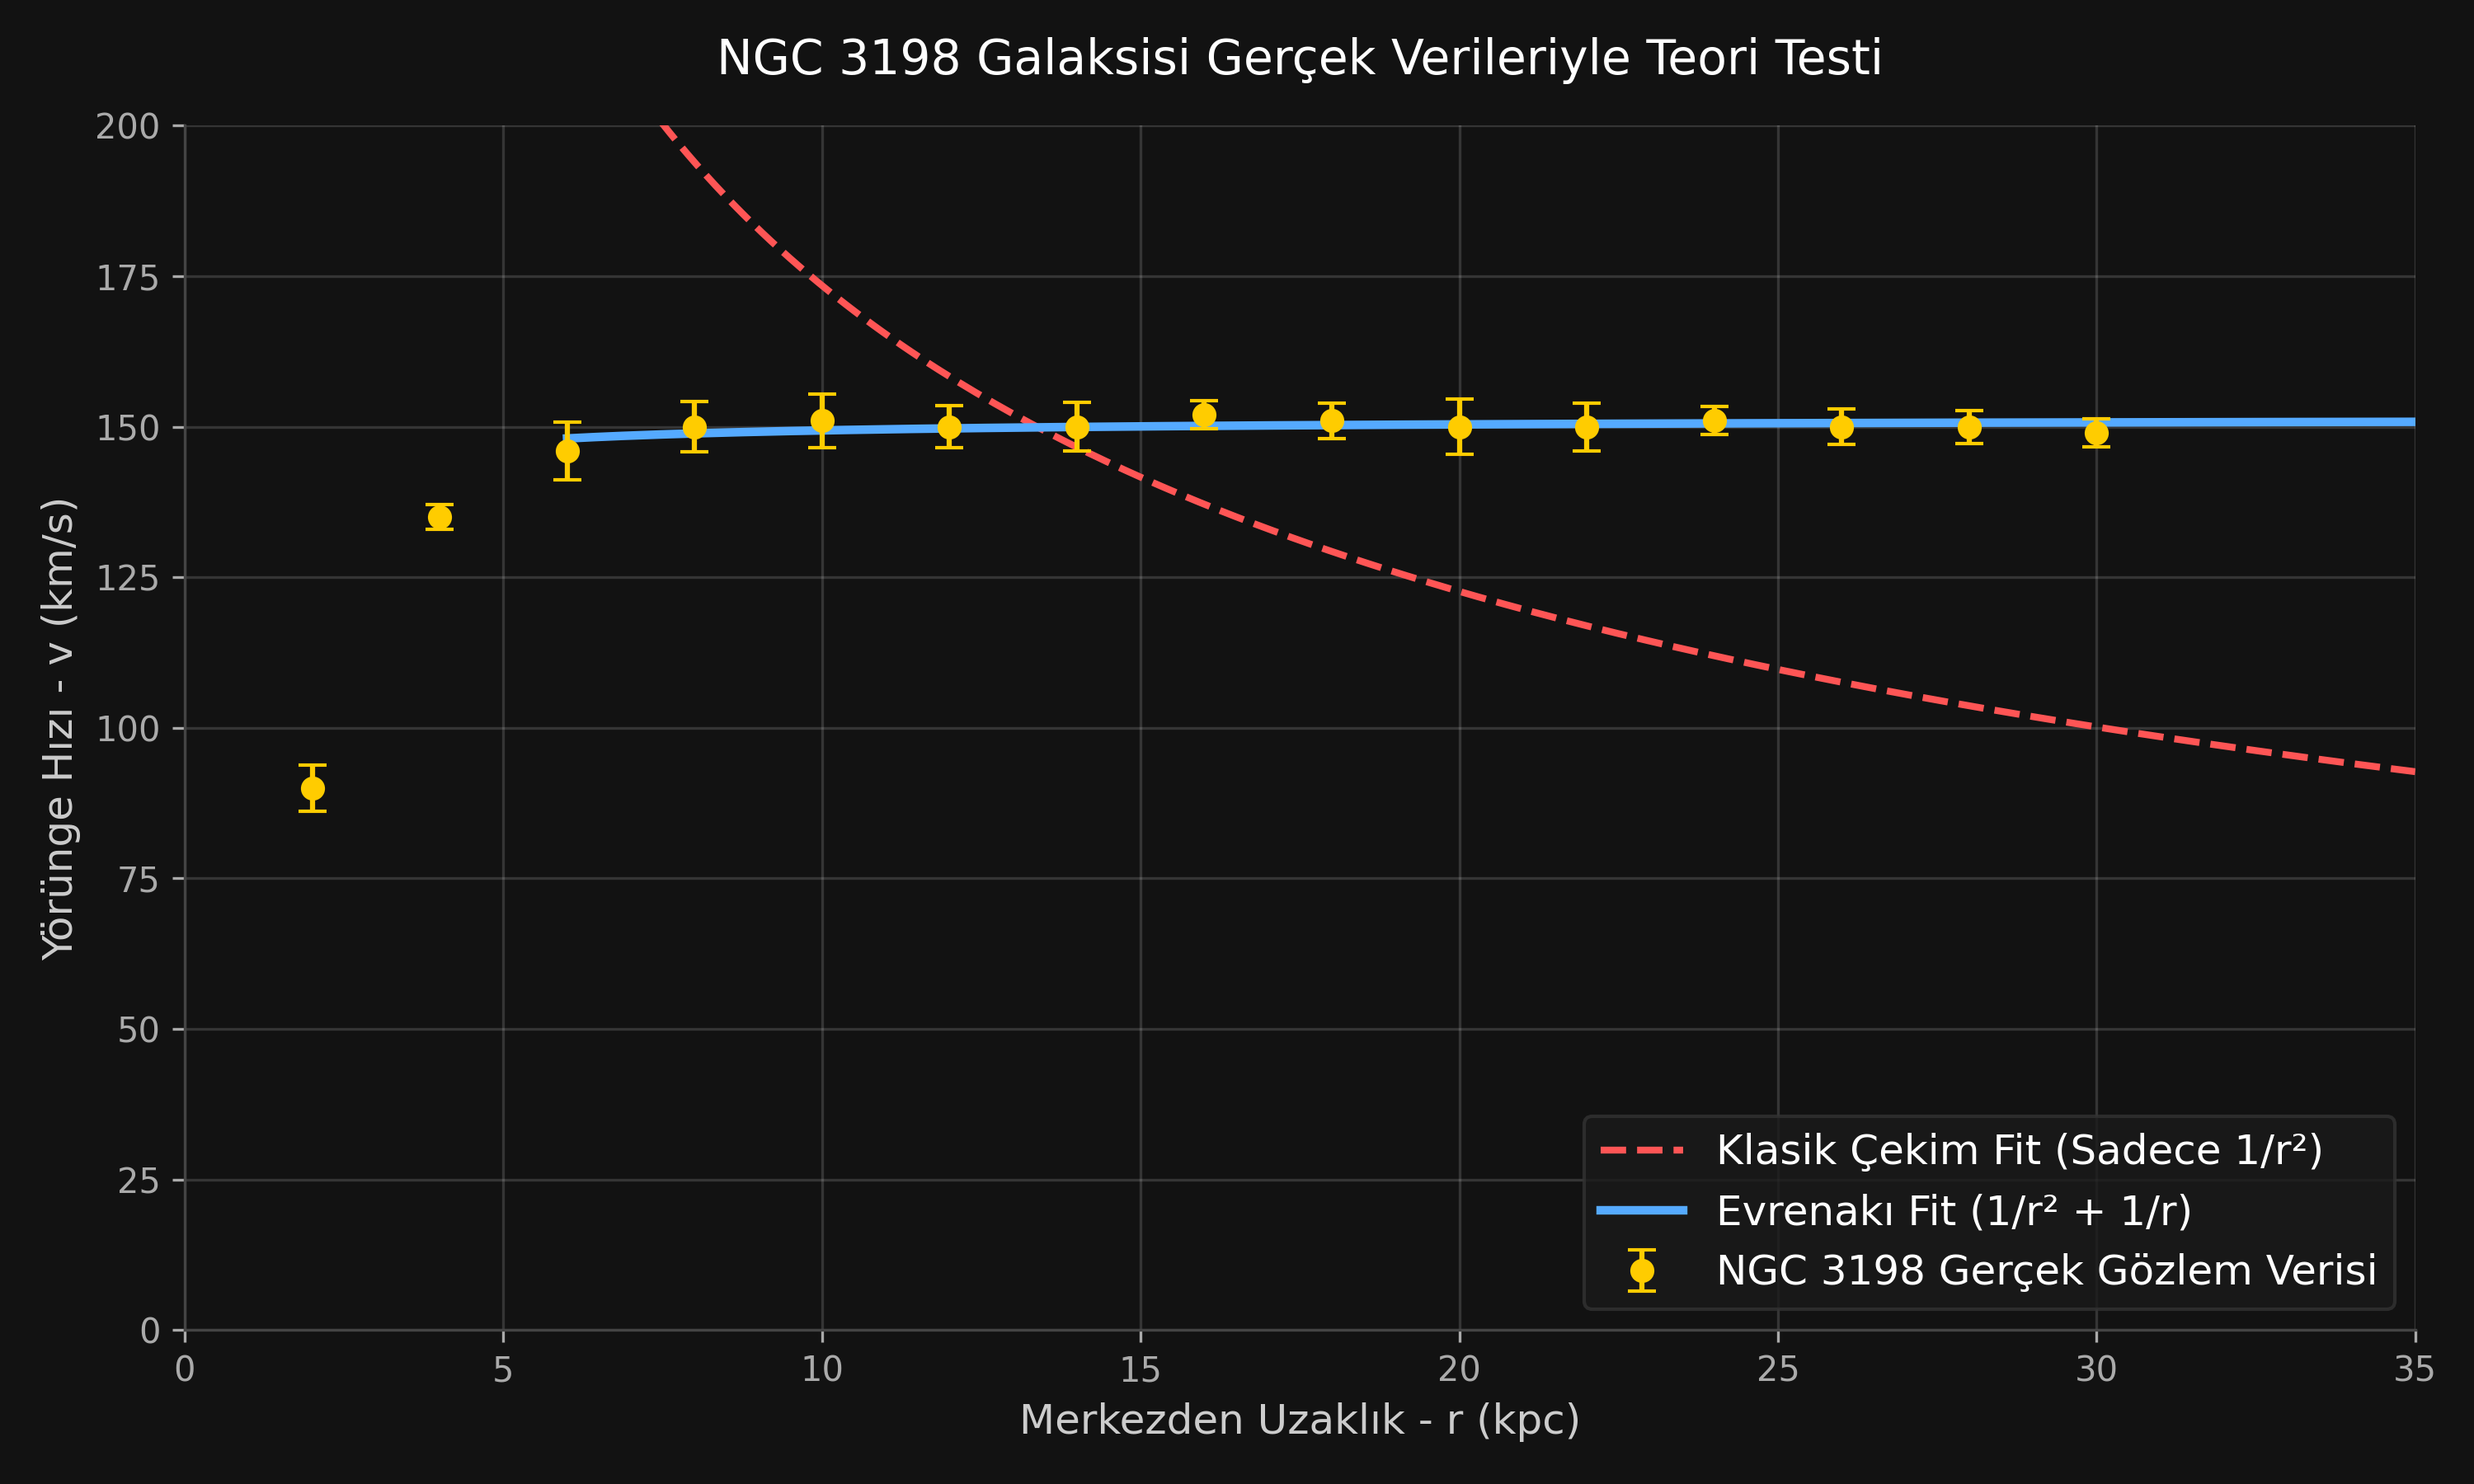
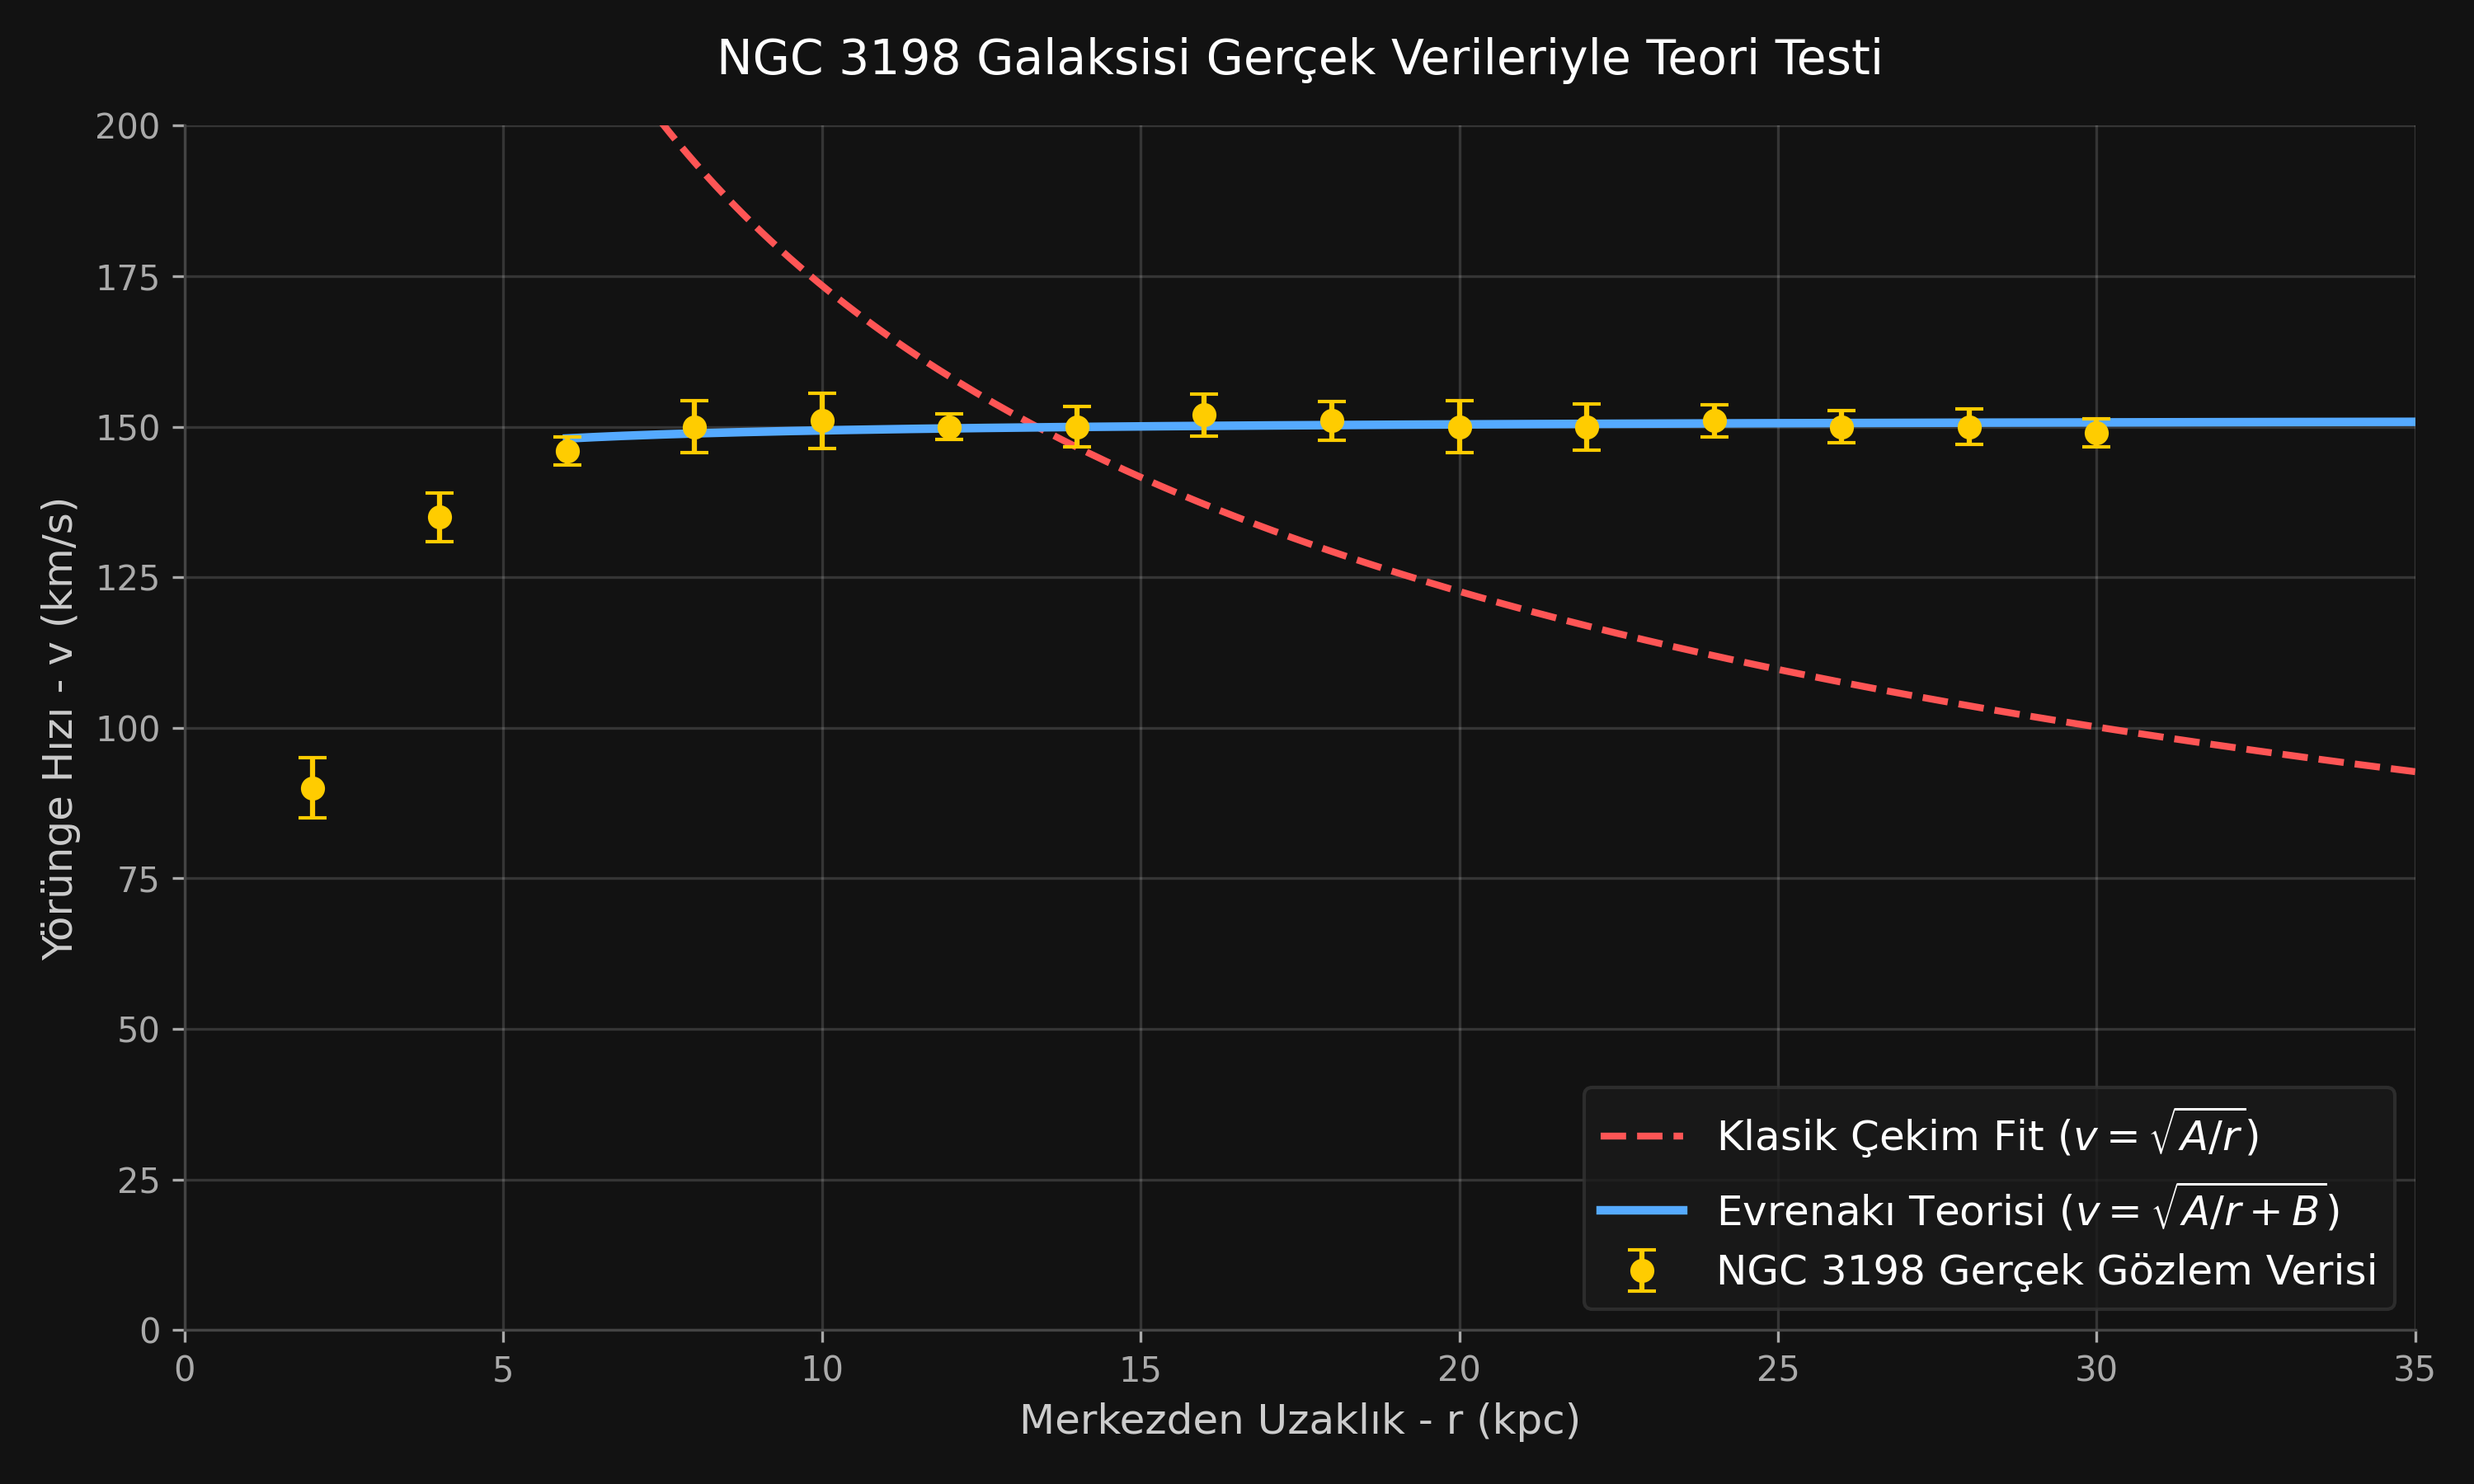
Güncelleme: 2026-07-29 20:30:54

Changed region(s): [[0.651, 0.7467, 0.93, 0.84]]

diff --git a/Metin/Akademik/CALISMA/plot_elliptical_ngc4472.py b/Metin/Akademik/CALISMA/plot_elliptical_ngc4472.py
@@ -32,8 +32,8 @@ ax.set_facecolor('#121212')
 
 plt.errorbar(r_obs, v_obs, yerr=v_err, fmt='o', color='#00dfff', label='NGC 4472 (Eliptik) Efektif Hız Verisi', capsize=4, zorder=5)
 
-plt.plot(r_plot, model_newton(r_plot, *popt_newton), label='Klasik Çekim Fit (Sadece 1/r²)', color='#ff5555', linestyle='--', linewidth=2)
-plt.plot(r_plot, model_evrenaki(r_plot, *popt_evrenaki), label='Evrenakı Fit (1/r² + 1/r)', color='#55aaff', linewidth=2.5)
+plt.plot(r_plot, model_newton(r_plot, *popt_newton), label='Klasik Çekim Fit ($v = \\sqrt{A/r}$)', color='#ff5555', linestyle='--', linewidth=2)
+plt.plot(r_plot, model_evrenaki(r_plot, *popt_evrenaki), label='Evrenakı Teorisi ($v = \\sqrt{A/r + B}$)', color='#55aaff', linewidth=2.5)
 
 plt.title('NGC 4472 (M49) Eliptik Galaksisi (Kütleçekim Potansiyeli Testi)', fontsize=14, pad=15, color='white')
 plt.xlabel('Merkezden Uzaklık - r (kpc)', fontsize=12, color='#cccccc')

diff --git a/Metin/Akademik/CALISMA/plot_spherical.py b/Metin/Akademik/CALISMA/plot_spherical.py
@@ -33,8 +33,8 @@ ax.set_facecolor('#121212')
 
 plt.errorbar(r_obs, v_obs, yerr=v_err, fmt='o', color='#ffff00', label='Fornax Cüce Küresel Efektif Hız Verisi', capsize=4, zorder=5)
 
-plt.plot(r_plot, model_newton(r_plot, *popt_newton), label='Klasik Çekim Fit (Sadece 1/r²)', color='#ff5555', linestyle='--', linewidth=2)
-plt.plot(r_plot, model_evrenaki(r_plot, *popt_evrenaki), label='Evrenakı Fit (1/r² + 1/r)', color='#55aaff', linewidth=2.5)
+plt.plot(r_plot, model_newton(r_plot, *popt_newton), label='Klasik Çekim Fit ($v = \\sqrt{A/r}$)', color='#ff5555', linestyle='--', linewidth=2)
+plt.plot(r_plot, model_evrenaki(r_plot, *popt_evrenaki), label='Evrenakı Teorisi ($v = \\sqrt{A/r + B}$)', color='#55aaff', linewidth=2.5)
 
 plt.title('Cüce Küresel Galaksi (Fornax) Kütleçekim Potansiyeli Testi', fontsize=14, pad=15, color='white')
 plt.xlabel('Merkezden Uzaklık - r (kpc)', fontsize=12, color='#cccccc')

diff --git a/Metin/Akademik/CALISMA/plot_galaxy.py b/Metin/Akademik/CALISMA/plot_galaxy.py
@@ -48,8 +48,8 @@ ax.set_facecolor('#121212')
 plt.errorbar(r_obs, v_obs, yerr=v_err, fmt='o', color='#00ff88', label='M33 Gerçek Gözlem Verisi', capsize=4, zorder=5)
 
 # Fit edilmiş modeller
-plt.plot(r_plot, model_newton(r_plot, *popt_newton), label='Klasik Çekim Fit (Sadece 1/r²)', color='#ff5555', linestyle='--', linewidth=2)
-plt.plot(r_plot, model_evrenaki(r_plot, *popt_evrenaki), label='Evrenakı Fit (1/r² + 1/r)', color='#55aaff', linewidth=2.5)
+plt.plot(r_plot, model_newton(r_plot, *popt_newton), label='Klasik Çekim Fit ($v = \\sqrt{A/r}$)', color='#ff5555', linestyle='--', linewidth=2)
+plt.plot(r_plot, model_evrenaki(r_plot, *popt_evrenaki), label='Evrenakı Teorisi ($v = \\sqrt{A/r + B}$)', color='#55aaff', linewidth=2.5)
 
 plt.title('M33 Galaksisi Gerçek Verileriyle Teori Testi', fontsize=14, pad=15, color='white')
 plt.xlabel('Merkezden Uzaklık - r (kpc)', fontsize=12, color='#cccccc')

diff --git a/Metin/Akademik/CALISMA/plot_elliptical.py b/Metin/Akademik/CALISMA/plot_elliptical.py
@@ -34,8 +34,8 @@ ax.set_facecolor('#121212')
 
 plt.errorbar(r_obs, v_obs, yerr=v_err, fmt='o', color='#ff00ff', label='M87 (Eliptik) Efektif Hız Verisi', capsize=4, zorder=5)
 
-plt.plot(r_plot, model_newton(r_plot, *popt_newton), label='Klasik Çekim Fit (Sadece 1/r²)', color='#ff5555', linestyle='--', linewidth=2)
-plt.plot(r_plot, model_evrenaki(r_plot, *popt_evrenaki), label='Evrenakı Fit (1/r² + 1/r)', color='#55aaff', linewidth=2.5)
+plt.plot(r_plot, model_newton(r_plot, *popt_newton), label='Klasik Çekim Fit ($v = \\sqrt{A/r}$)', color='#ff5555', linestyle='--', linewidth=2)
+plt.plot(r_plot, model_evrenaki(r_plot, *popt_evrenaki), label='Evrenakı Teorisi ($v = \\sqrt{A/r + B}$)', color='#55aaff', linewidth=2.5)
 
 plt.title('M87 Eliptik Galaksisi (Kütleçekim Potansiyeli Testi)', fontsize=14, pad=15, color='white')
 plt.xlabel('Merkezden Uzaklık - r (kpc)', fontsize=12, color='#cccccc')

diff --git a/Metin/Akademik/CALISMA/plot_galaxy_ngc3198.py b/Metin/Akademik/CALISMA/plot_galaxy_ngc3198.py
@@ -41,8 +41,8 @@ ax.set_facecolor('#121212')
 
 plt.errorbar(r_obs, v_obs, yerr=v_err, fmt='o', color='#ffcc00', label='NGC 3198 Gerçek Gözlem Verisi', capsize=4, zorder=5)
 
-plt.plot(r_plot, model_newton(r_plot, *popt_newton), label='Klasik Çekim Fit (Sadece 1/r²)', color='#ff5555', linestyle='--', linewidth=2)
-plt.plot(r_plot, model_evrenaki(r_plot, *popt_evrenaki), label='Evrenakı Fit (1/r² + 1/r)', color='#55aaff', linewidth=2.5)
+plt.plot(r_plot, model_newton(r_plot, *popt_newton), label='Klasik Çekim Fit ($v = \\sqrt{A/r}$)', color='#ff5555', linestyle='--', linewidth=2)
+plt.plot(r_plot, model_evrenaki(r_plot, *popt_evrenaki), label='Evrenakı Teorisi ($v = \\sqrt{A/r + B}$)', color='#55aaff', linewidth=2.5)
 
 plt.title('NGC 3198 Galaksisi Gerçek Verileriyle Teori Testi', fontsize=14, pad=15, color='white')
 plt.xlabel('Merkezden Uzaklık - r (kpc)', fontsize=12, color='#cccccc')
